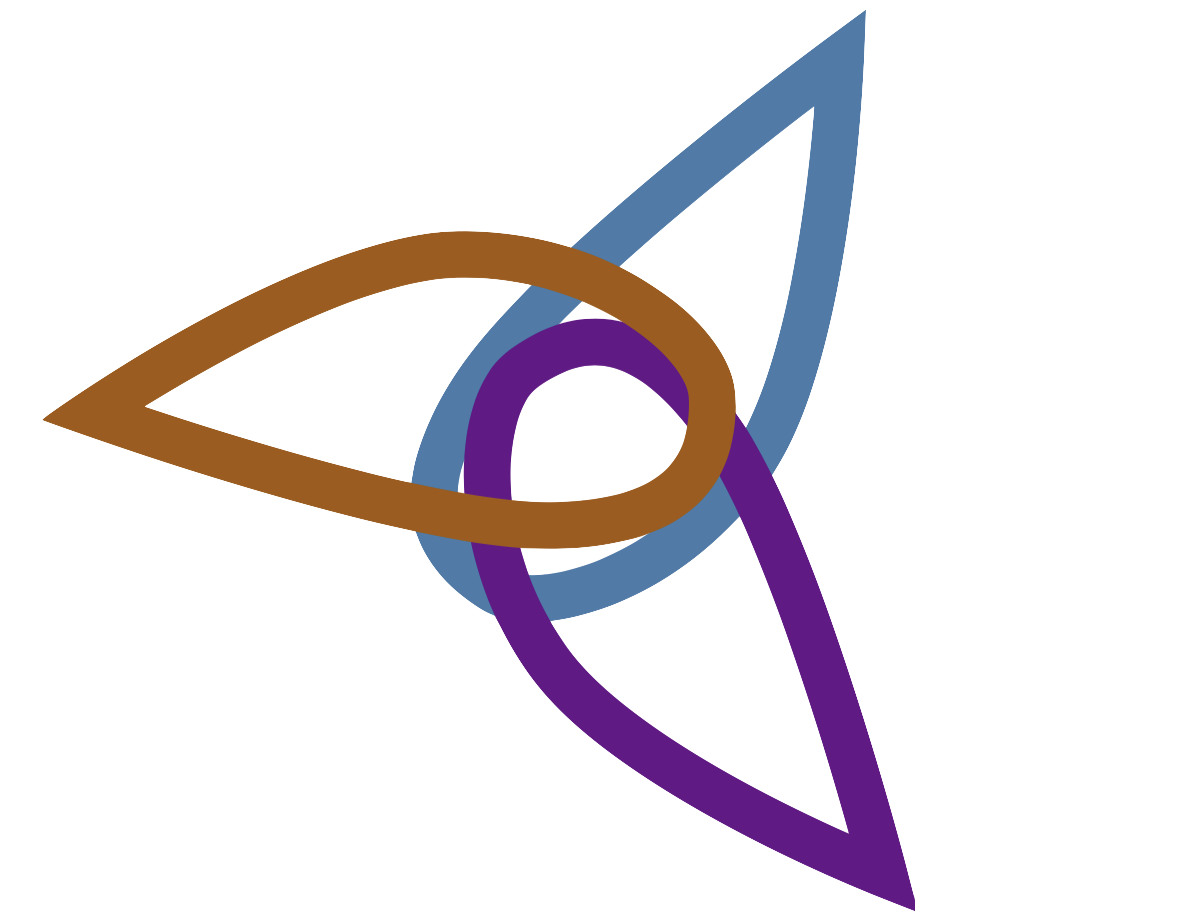
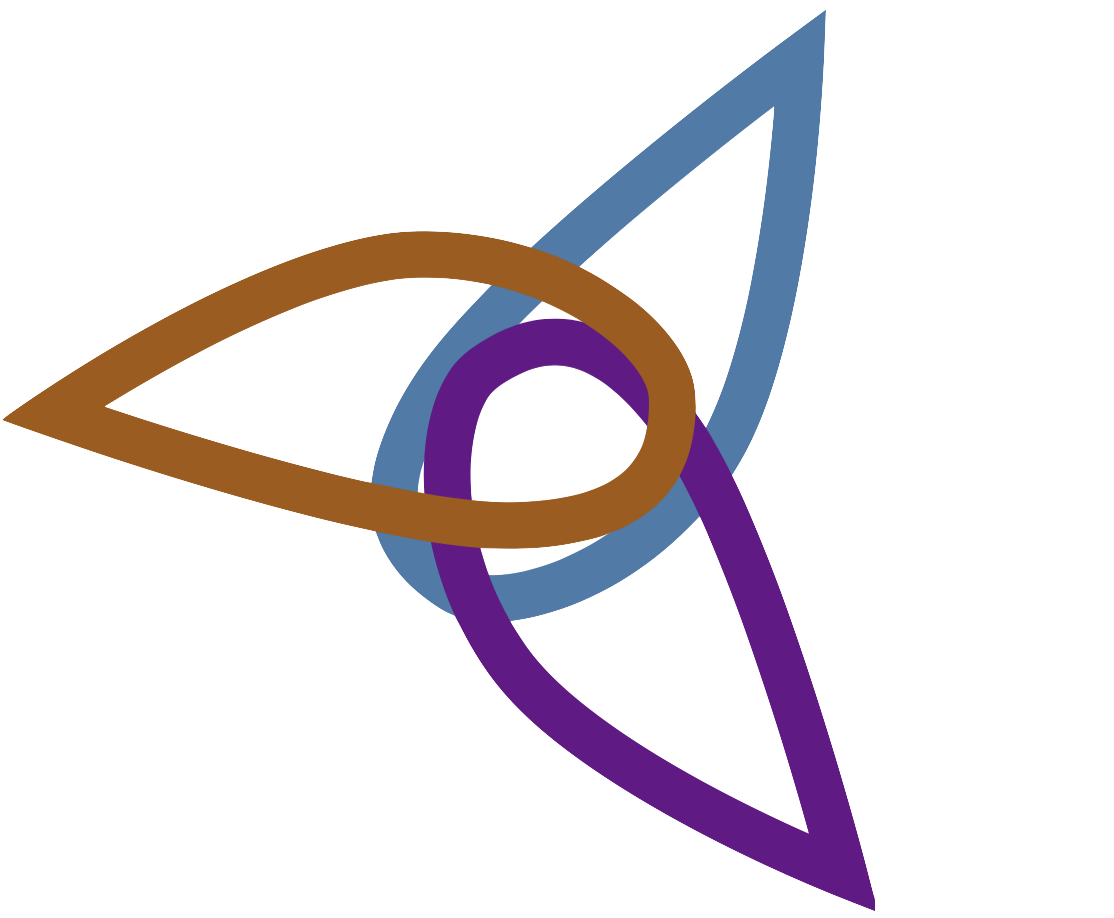
Tidies up Login view, making it a bit more compact

diff --git a/src/main/webapp/css/WebProtege.css b/src/main/webapp/css/WebProtege.css
@@ -735,7 +735,7 @@ td {
 
 .wp-login-logo {
     width: 200px;
-    height: 200px;
+    height: 160px;
     background: url("../images/protege-blender.png") no-repeat;
     background-size: contain;
 }
